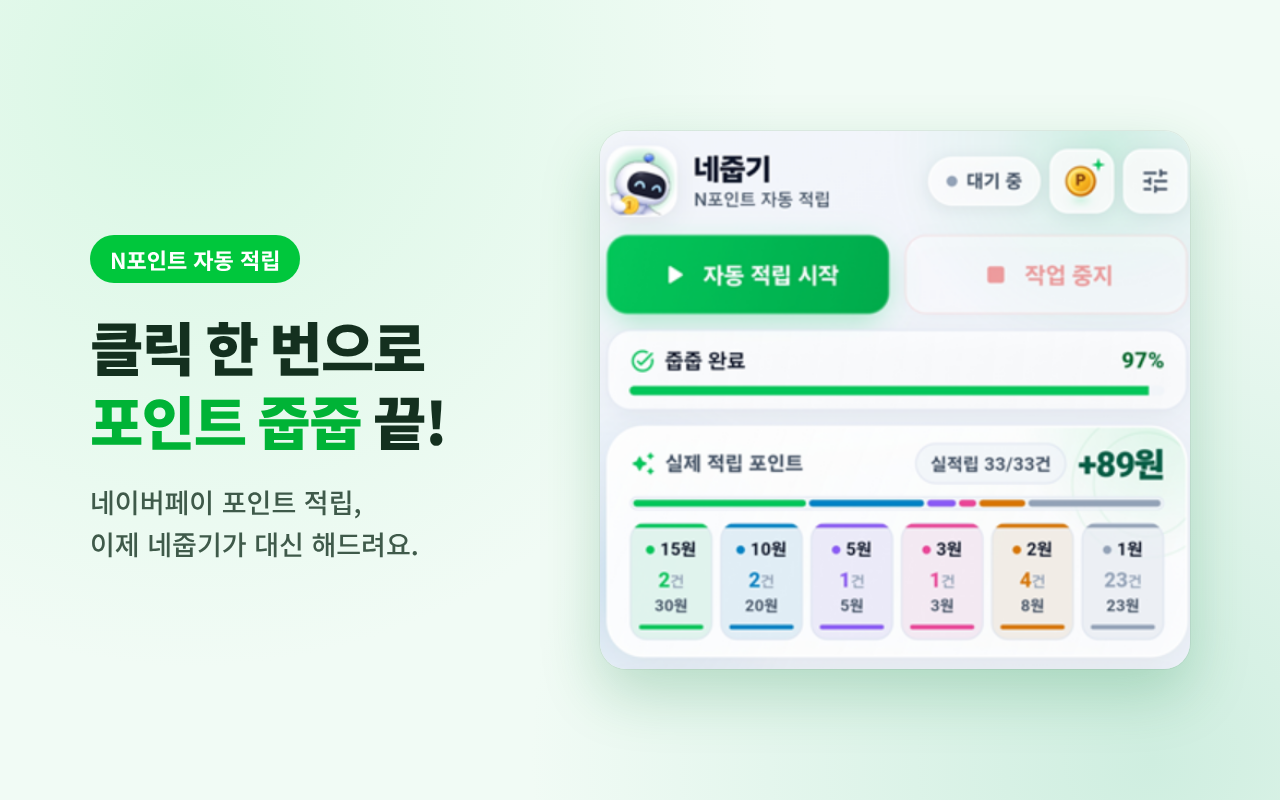
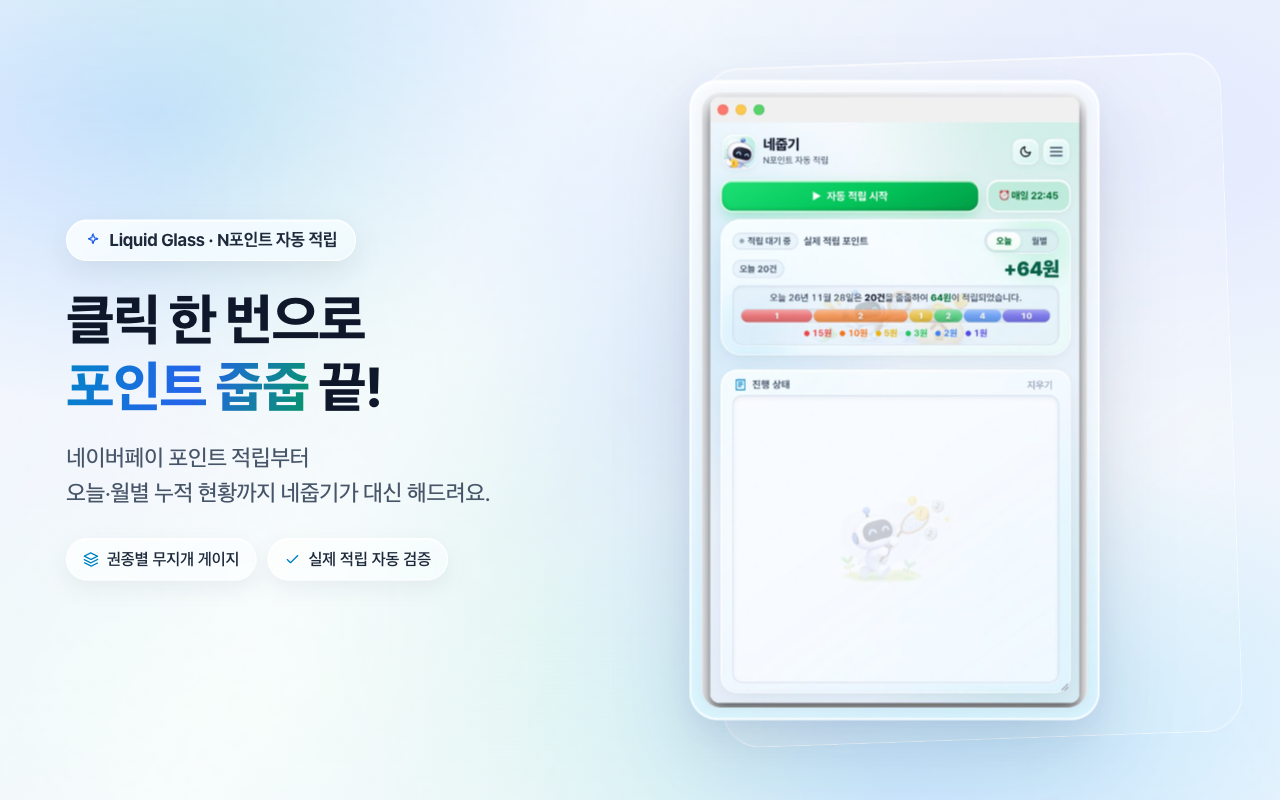
chore: 1280x800 소개 이미지 6종 및 index.html 리퀴드 글래스 업데이트 배포

Changed region(s): [[0.4375, 0.125, 1.0, 1.0], [0.0312, 0.2812, 0.375, 0.7188]]

diff --git a/index.html b/index.html
@@ -80,24 +80,24 @@
                 <img src="images/screenshot_1_1280x800.png" alt="네줍기 - 클릭 한 번으로 네이버페이 포인트 자동 적립 및 권종별 실적립 요약"
                   width="1280" height="800" decoding="async" loading="eager" class="screenshot-slide-img">
               </div>
-              <div class="screenshot-slide" data-caption="▲ 좌측 네이버페이 혜택 화면과 우측 상시 고정 사이드 패널의 동시 동작 화면">
+              <div class="screenshot-slide" data-caption="▲ 좌측 네이버페이 혜택 화면과 우측 상시 고정 사이드 패널의 나란히 실행 화면">
                 <img src="images/screenshot_2_1280x800.png" alt="네줍기 - 브라우저 사이드 패널에서 네이버페이 혜택 페이지와 함께 자동 적립 실행"
                   width="1280" height="800" decoding="async" loading="lazy" class="screenshot-slide-img">
               </div>
-              <div class="screenshot-slide" data-caption="▲ 원하는 시각에 매일 자동 시작하고 예정된 쇼핑라이브도 자동으로 예약 실행">
-                <img src="images/screenshot_3_1280x800.png" alt="네줍기 - 매일 자동 시작 시간 예약 및 예정 쇼핑라이브 자동 예약 설정"
+              <div class="screenshot-slide" data-caption="▲ 다양한 미션의 실시간 수집과 진행 상태를 한눈에 확인하고 일시정지·중지 제어">
+                <img src="images/screenshot_3_1280x800.png" alt="네줍기 - 실시간 미션 수집과 진행 상태 로그 확인 및 일시정지 제어"
                   width="1280" height="800" decoding="async" loading="lazy" class="screenshot-slide-img">
               </div>
-              <div class="screenshot-slide" data-caption="▲ 별도 창 조용히 실행 · 참여한 미션 자동 제외 · 1원 초과만 선택 등 맞춤 필터 옵션">
-                <img src="images/screenshot_4_1280x800.png" alt="네줍기 - 별도 창 조용히 실행, 참여 미션 자동 제외, 1원 초과 필터 옵션"
+              <div class="screenshot-slide" data-caption="▲ 오늘 누적 무지개 게이지와 월별 스파크라인·연간 4×3 통계까지 투명하게 조회">
+                <img src="images/screenshot_4_1280x800.png" alt="네줍기 - 오늘 누적 무지개 게이지, 월별 스파크라인, 연간 4x3 월별 합계 모달"
                   width="1280" height="800" decoding="async" loading="lazy" class="screenshot-slide-img">
               </div>
-              <div class="screenshot-slide" data-caption="▲ 미션 처리 현황과 실제 적립 검증 결과를 실시간 로그로 한눈에 확인">
-                <img src="images/screenshot_5_1280x800.png" alt="네줍기 - 미션 처리 현황과 적립 검증 결과를 실시간으로 확인하는 진행 로그"
+              <div class="screenshot-slide" data-caption="▲ 매일 자동 시작 예약, 예정 라이브 +10분 예약, 별도 창 조용히 실행 등 맞춤 옵션">
+                <img src="images/screenshot_5_1280x800.png" alt="네줍기 - 매일 자동 시작 시간 예약, 예정 라이브 예약 및 맞춤 자동화 설정"
                   width="1280" height="800" decoding="async" loading="lazy" class="screenshot-slide-img">
               </div>
-              <div class="screenshot-slide" data-caption="▲ 크롬 우측 상단 퍼즐 아이콘에서 네줍기를 선택하고 핀 고정으로 빠르게 열기">
-                <img src="images/guide_1280x800.png" alt="네줍기 - 크롬 우측 상단 퍼즐 아이콘에서 네줍기를 찾아 핀 고정하는 사용 가이드"
+              <div class="screenshot-slide" data-caption="▲ 크롬 우측 상단 퍼즐 아이콘에서 네줍기를 찾아 핀 고정으로 빠르게 열기">
+                <img src="images/screenshot_6_1280x800.png" alt="네줍기 - 크롬 우측 상단 퍼즐 아이콘에서 네줍기를 찾아 핀 고정하는 사용 가이드"
                   width="1280" height="800" decoding="async" loading="lazy" class="screenshot-slide-img">
               </div>
             </div>
